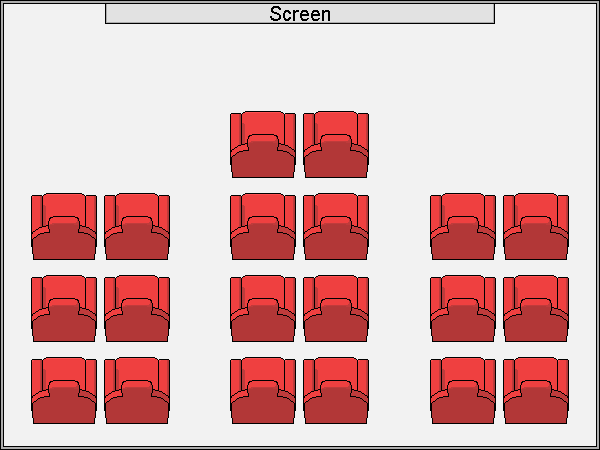
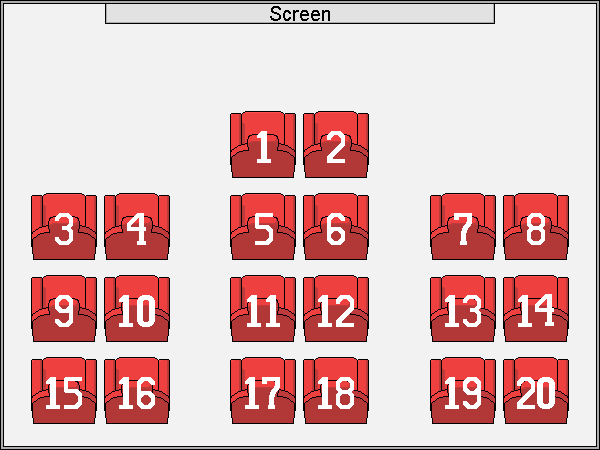
New Images and pages
I've added some movie posters and changed the room images to include
numbers, I've added a Doctor Strange description (from Cineplex) that we
could add to the website. I've also included the two pages that I made,
"date/time selection" and "location selection".

diff --git a/Locations.html b/Locations.html
@@ -1,0 +1,178 @@
+<!DOCTYPE html>
+<html lang="en">
+
+  <head>
+
+    <meta charset="utf-8">
+    <meta name="viewport" content="width=device-width, initial-scale=1">
+    <title>Locations</title>
+	
+	<style>
+		body
+		{
+			background-color: Crimson ;
+		}
+		.arialRed
+		{
+			font-family: arial ;
+			color: DarkRed ;
+		}
+		.arialBlack
+		{
+			font-family: arial ;
+			color: Black ;
+			float: left ;
+			margin: 0 0 0 2% ;
+		}
+		.leftImage
+		{
+			float: left ;
+			margin: 0 0 0 1% ;
+		}
+		.leftText
+		{
+			float: left ;
+			margin: 0 0 0 2% ;
+			
+			font-family: arial ;
+			color: Black ;
+			
+		}
+		.leftButton
+		{
+			font-size: 95% ;
+			float: right ;
+		}
+		.backButton
+		{
+			font-size: 110% ;
+			float: left ;
+			margin: 0 0 0 5% ;
+		}
+		.boxMain
+		{
+			margin-top: -1% ;
+			margin-left: 10% ;
+			margin-right: 10% ;
+			
+			border: 3px solid DarkRed ;
+			background-color: FloralWhite ;
+		}
+		.boxLocation
+		{
+			margin-left: 22% ;
+			margin-right: 22% ;
+			overflow: auto;
+			
+			border: 2px solid black ;
+			background-color: White ;
+		}
+	</style>
+  </head>
+  
+  
+  <body>
+	<div class="boxMain">
+		<br>
+		<button class="backButton">
+			<b>Back</b>
+		</button>
+		<center>
+			<br>
+			<h2 class="arialRed">Choose Your Theatre Location</h2> <br>
+			
+			<div class="boxLocation">
+				<img class="leftImage" src="Images/Famous Players.png" alt="Theatre Picture Not Found" width="210" height="150">
+				
+				<button class="leftButton">
+					<b class="arialBlack">Accept</b>
+				</button>
+				<br>
+				<b class="leftText">Famous Players</b>
+				<p class="leftText">(Kildonan Place)</p>
+				
+				<br><br>
+				<p class="arialBlack">1555 Regent Ave W, Winnipeg, MB, R2C 4J2</p> <br>
+				<p class="arialBlack">(204) 663-2166</p>
+			</div><br>
+			<div class="boxLocation">
+				<img class="leftImage" src="Images/Famous Players.png" alt="Theatre Picture Not Found" width="210" height="150">
+				
+				<button class="leftButton">
+					<b class="arialBlack">Accept</b>
+				</button>
+				<br>
+				<b class="leftText">Famous Players</b>
+				<p class="leftText">(Kildonan Place)</p>
+				
+				<br><br>
+				<p class="arialBlack">1555 Regent Ave W, Winnipeg, MB, R2C 4J2</p> <br>
+				<p class="arialBlack">(204) 663-2166</p>
+			</div><br>
+			<div class="boxLocation">
+				<img class="leftImage" src="Images/Famous Players.png" alt="Theatre Picture Not Found" width="210" height="150">
+				
+				<button class="leftButton">
+					<b class="arialBlack">Accept</b>
+				</button>
+				<br>
+				<b class="leftText">Famous Players</b>
+				<p class="leftText">(Kildonan Place)</p>
+				
+				<br><br>
+				<p class="arialBlack">1555 Regent Ave W, Winnipeg, MB, R2C 4J2</p> <br>
+				<p class="arialBlack">(204) 663-2166</p>
+			</div><br>
+			<div class="boxLocation">
+				<img class="leftImage" src="Images/Famous Players.png" alt="Theatre Picture Not Found" width="210" height="150">
+				
+				<button class="leftButton">
+					<b class="arialBlack">Accept</b>
+				</button>
+				<br>
+				<b class="leftText">Famous Players</b>
+				<p class="leftText">(Kildonan Place)</p>
+				
+				<br><br>
+				<p class="arialBlack">1555 Regent Ave W, Winnipeg, MB, R2C 4J2</p> <br>
+				<p class="arialBlack">(204) 663-2166</p>
+			</div><br>
+			<div class="boxLocation">
+				<img class="leftImage" src="Images/Famous Players.png" alt="Theatre Picture Not Found" width="210" height="150">
+				
+				<button class="leftButton">
+					<b class="arialBlack">Accept</b>
+				</button>
+				<br>
+				<b class="leftText">Famous Players</b>
+				<p class="leftText">(Kildonan Place)</p>
+				
+				<br><br>
+				<p class="arialBlack">1555 Regent Ave W, Winnipeg, MB, R2C 4J2</p> <br>
+				<p class="arialBlack">(204) 663-2166</p>
+			</div><br>
+			<div class="boxLocation">
+				<img class="leftImage" src="Images/Famous Players.png" alt="Theatre Picture Not Found" width="210" height="150">
+				
+				<button class="leftButton">
+					<b class="arialBlack">Accept</b>
+				</button>
+				<br>
+				<b class="leftText">Famous Players</b>
+				<p class="leftText">(Kildonan Place)</p>
+				
+				<br><br>
+				<p class="arialBlack">1555 Regent Ave W, Winnipeg, MB, R2C 4J2</p> <br>
+				<p class="arialBlack">(204) 663-2166</p>
+			</div><br>
+			
+		</center>
+	<div>
+  </body>
+
+
+
+
+
+
+</html>

diff --git a/Date and Time.html b/Date and Time.html
@@ -1,0 +1,113 @@
+<!DOCTYPE html>
+<html lang="en">
+
+
+  <head>
+
+    <meta charset="utf-8">
+    <meta name="viewport" content="width=device-width, initial-scale=1">
+    <title>Date and Time</title>
+	
+	<style>
+		body
+		{
+			background-color: Crimson ;
+		}
+		.arialRed
+		{
+			font-family: arial ;
+			color: DarkRed ;
+		}
+		.arialBlack
+		{
+			font-size: 200% ;
+			font-family: arial ;
+			color: Black ;
+			float: left ;
+			margin: 0 0 0 2% ;
+		}
+		.backButton
+		{
+			font-size: 110% ;
+			float: left ;
+			margin: 0 0 0 5% ;
+		}
+		.boxMain
+		{
+			margin-top: -1% ;
+			margin-left: 10% ;
+			margin-right: 10% ;
+			
+			border: 3px solid DarkRed ;
+			background-color: FloralWhite ;
+		}
+		.boxCalendar
+		{
+			margin-left: 1% ;
+			margin-right: 1% ;
+			overflow: auto;
+		}
+		.boxTime
+		{
+			margin-left: 35% ;
+			margin-right: 35% ;
+			overflow: auto;
+			
+			border: 2px solid black ;
+			background-color: white ;
+		}
+	</style>
+	
+  </head>
+
+
+  <body>
+	<div class="boxMain">
+		<br>
+		<button class="backButton">
+			<b>Back</b>
+		</button>
+		<center>
+			<br>
+			<h2 class="arialRed">Choose Your Date</h2> <br>
+			
+			<div class="boxCalendar">
+				<img class="leftImage" src="Images/Calendar.png" alt="Calendar Picture Not Found" width="400" height="350">
+				
+				<br>
+				<button>
+					<b class="arialBlack"><</b>
+				</button>
+				<button>
+					<b class="arialBlack">></b>
+				</button>
+			</div>
+			
+			<br><br><br>
+			<h2 class="arialRed">Choose Your Time</h2> <br>
+			
+			<div class="boxTime">
+				<br><br>
+				<a href="http://www.google.ca">9:30AM,</a>
+				<a href="http://www.google.ca">12:00PM,</a><br><br>
+				
+				<a href="http://www.google.ca">2:30PM,</a>
+				<a href="http://www.google.ca">5:00PM,</a><br><br>
+				
+				<a href="http://www.google.ca">7:30PM</a>
+				<a href="http://www.google.ca">10:00PM</a>
+				<br><br>
+				<p> </p>
+			</div>
+			
+			<br><br>
+		</center>
+	</div>
+  </body>
+
+
+
+
+
+
+</html>
